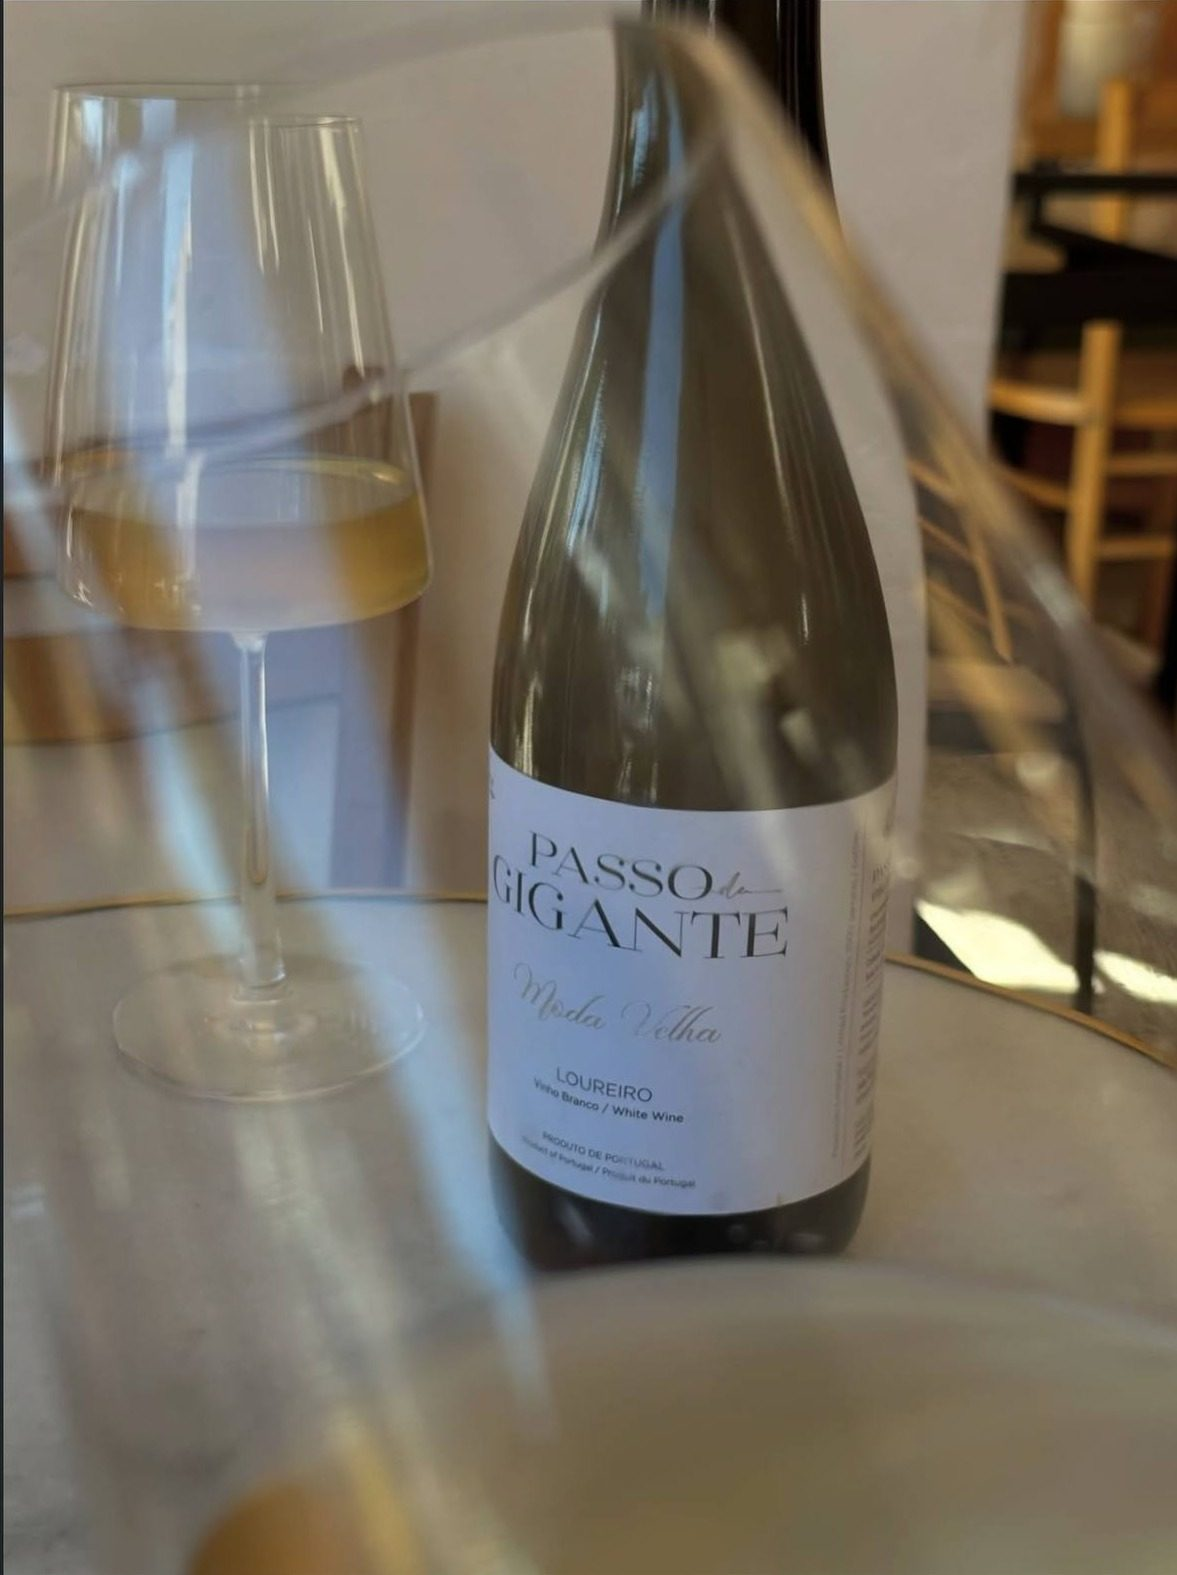
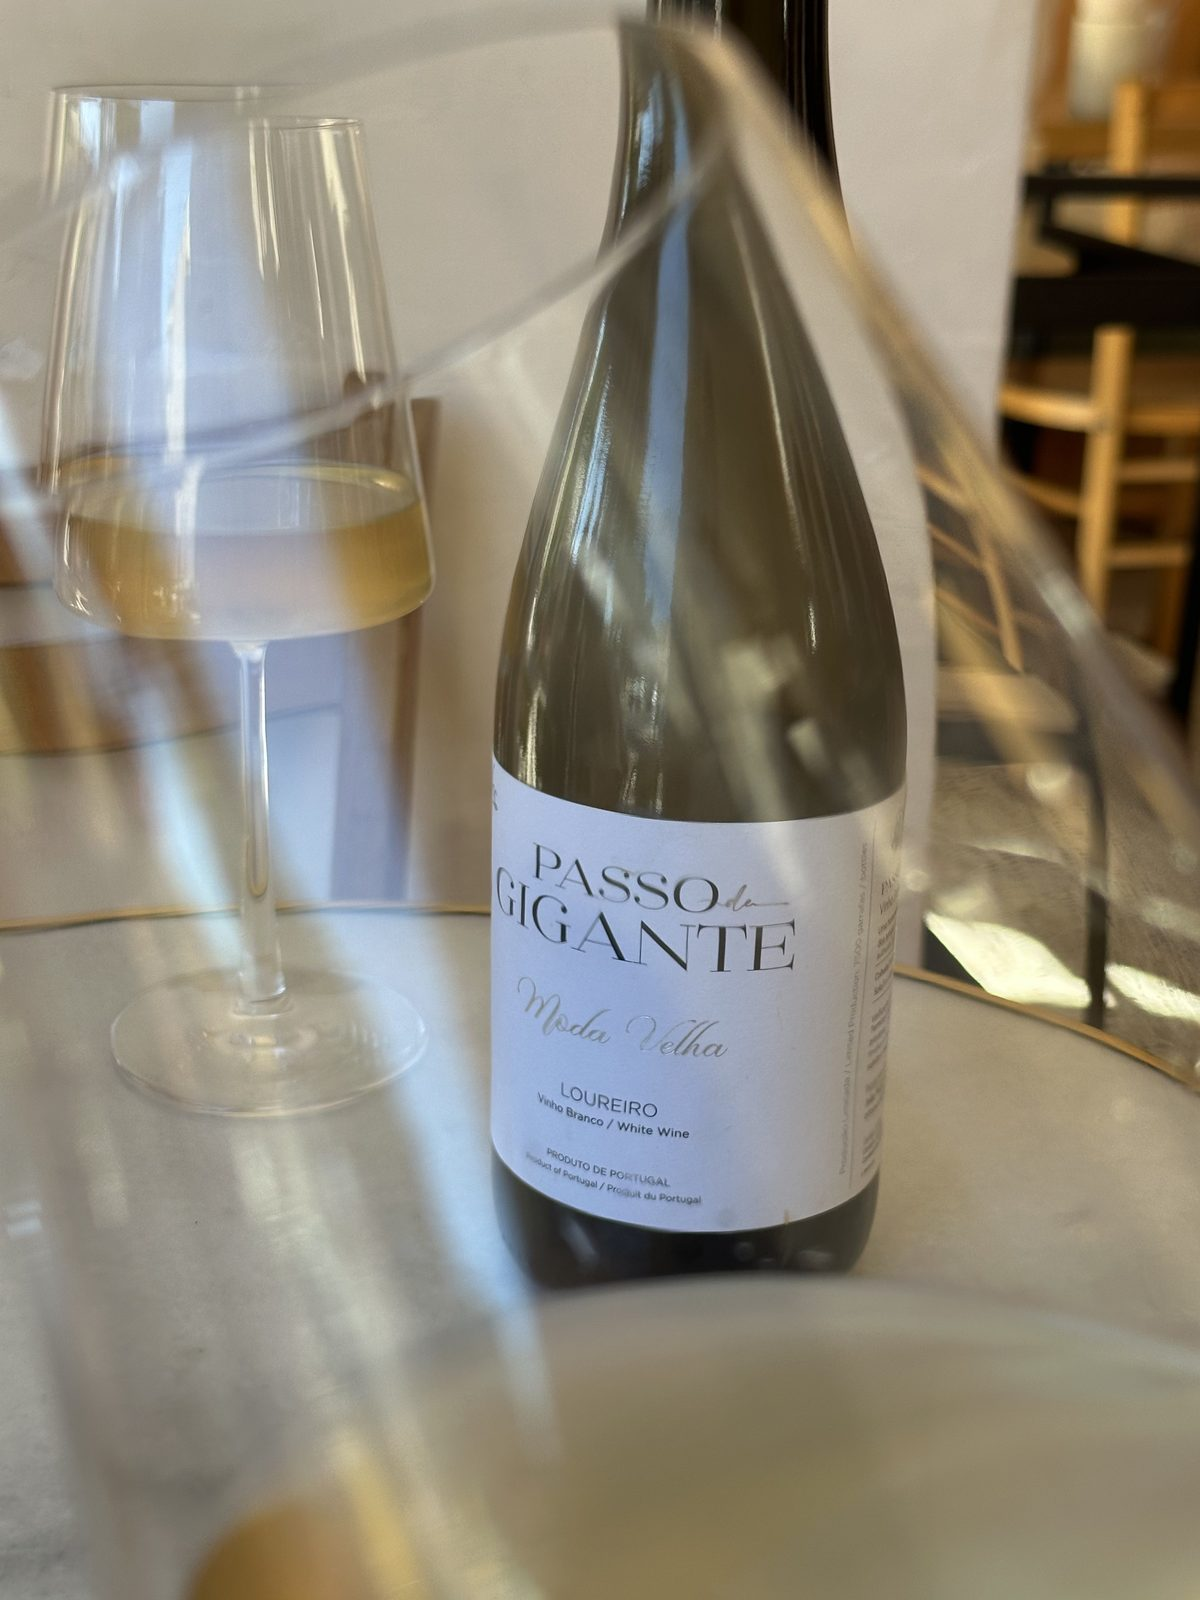
Homepage: 5 more photos, original-quality Passo de Gigante photo
Claude-Session: https://claude.ai/code/session_01V5p9waPZsE8MXT3q82iYXb

diff --git a/src/pages/Index.tsx b/src/pages/Index.tsx
@@ -8,49 +8,59 @@ import { MenuSheet } from "@/components/MenuSheet";
 import { JoinTeamSheet } from "@/components/JoinTeamSheet";
 import logoImage from "@/assets/logo.png";
 
-// Фото из Instagram @alba.lisbon (октябрь 2026)
+// Фото Альбы (Instagram и оригиналы, октябрь 2026)
 import photo0 from "@/assets/photos/breakfast-plate-window.jpg";
 import photo1 from "@/assets/photos/flat-matcha-iced.jpg";
 import photo2 from "@/assets/photos/four-cheese-omelette.jpg";
 import photo3 from "@/assets/photos/terrace-breakfast.jpg";
-import photo4 from "@/assets/photos/figs-lemon-cream.jpg";
-import photo5 from "@/assets/photos/espresso-pour.jpg";
-import photo6 from "@/assets/photos/avocado-toast-two-ways.jpg";
-import photo7 from "@/assets/photos/terrace-largo-do-rato.jpg";
-import photo8 from "@/assets/photos/brunch-crepes-scrambled-eggs.jpg";
-import photo9 from "@/assets/photos/coffee-milk-pour.jpg";
-import photo10 from "@/assets/photos/savory-oatmeal.jpg";
-import photo11 from "@/assets/photos/window-table-flower.jpg";
-import photo12 from "@/assets/photos/creme-brulee-strawberries.jpg";
-import photo13 from "@/assets/photos/filter-coffee-bloom.jpg";
-import photo14 from "@/assets/photos/weekend-set-bellini.jpg";
-import photo15 from "@/assets/photos/wine-passo-de-gigante.jpg";
-import photo16 from "@/assets/photos/espresso-cups-table.jpg";
-import photo17 from "@/assets/photos/coffee-beans-bona-roasters.jpg";
-import photo18 from "@/assets/photos/terrace-chairs.jpg";
-import photo19 from "@/assets/photos/empty-cups.jpg";
+import photo4 from "@/assets/photos/strawberry-matcha-closeup.jpg";
+import photo5 from "@/assets/photos/figs-lemon-cream.jpg";
+import photo6 from "@/assets/photos/espresso-pour.jpg";
+import photo7 from "@/assets/photos/avocado-toast-two-ways.jpg";
+import photo8 from "@/assets/photos/terrace-largo-do-rato.jpg";
+import photo9 from "@/assets/photos/matcha-to-go.jpg";
+import photo10 from "@/assets/photos/brunch-crepes-scrambled-eggs.jpg";
+import photo11 from "@/assets/photos/coffee-milk-pour.jpg";
+import photo12 from "@/assets/photos/savory-oatmeal.jpg";
+import photo13 from "@/assets/photos/window-table-flower.jpg";
+import photo14 from "@/assets/photos/best-review.jpg";
+import photo15 from "@/assets/photos/creme-brulee-strawberries.jpg";
+import photo16 from "@/assets/photos/filter-coffee-bloom.jpg";
+import photo17 from "@/assets/photos/weekend-set-bellini.jpg";
+import photo18 from "@/assets/photos/wine-passo-de-gigante.jpg";
+import photo19 from "@/assets/photos/wine-fridge.jpg";
+import photo20 from "@/assets/photos/espresso-cups-table.jpg";
+import photo21 from "@/assets/photos/coffee-beans-bona-roasters.jpg";
+import photo22 from "@/assets/photos/takeaway-bag.jpg";
+import photo23 from "@/assets/photos/terrace-chairs.jpg";
+import photo24 from "@/assets/photos/empty-cups.jpg";
 
 const photos = [
   { src: photo0, alt: "Breakfast plate with sourdough, boiled eggs, avocado, butter and jam by the window at Alba Lisbon" },
   { src: photo1, alt: "Iced flat matcha at Alba Lisbon matcha bar" },
   { src: photo2, alt: "Four cheese and onion jam omelette with green salad" },
   { src: photo3, alt: "Breakfast on the terrace at Largo do Rato" },
-  { src: photo4, alt: "Seasonal fruit with lemon cream – fresh figs and pistachios" },
-  { src: photo5, alt: "Double espresso pouring at Alba Lisbon" },
-  { src: photo6, alt: "Avocado toast two ways on a wooden chair" },
-  { src: photo7, alt: "Guests on the terrace at Largo do Rato" },
-  { src: photo8, alt: "Brunch spread with scrambled eggs, a savory crêpe and crêpe Suzette" },
-  { src: photo9, alt: "Milk poured into a black coffee" },
-  { src: photo10, alt: "Savory oatmeal with prosciutto cotto and fresh orange juice" },
-  { src: photo11, alt: "Window table with a red carnation" },
-  { src: photo12, alt: "Crème brûlée and strawberries with cream next to a black coffee" },
-  { src: photo13, alt: "Filter coffee blooming in a paper filter" },
-  { src: photo14, alt: "Weekend set – Bellini with seasonal fruit and cream on the terrace" },
-  { src: photo15, alt: "Passo de Gigante white wine at Alba Lisbon" },
-  { src: photo16, alt: "Espresso cups on a marble table" },
-  { src: photo17, alt: "Specialty coffee beans from Bona Roasters" },
-  { src: photo18, alt: "Rattan terrace chairs at Alba Lisbon" },
-  { src: photo19, alt: "Empty coffee cups after a busy morning" },
+  { src: photo4, alt: "Strawberry matcha close up – whipped strawberry ice cream over a matcha latte" },
+  { src: photo5, alt: "Seasonal fruit with lemon cream – fresh figs and pistachios" },
+  { src: photo6, alt: "Double espresso pouring at Alba Lisbon" },
+  { src: photo7, alt: "Avocado toast two ways on a wooden chair" },
+  { src: photo8, alt: "Guests on the terrace at Largo do Rato" },
+  { src: photo9, alt: "Iced matcha latte to go in a kraft paper carrier" },
+  { src: photo10, alt: "Brunch spread with scrambled eggs, a savory crêpe and crêpe Suzette" },
+  { src: photo11, alt: "Milk poured into a black coffee" },
+  { src: photo12, alt: "Savory oatmeal with prosciutto cotto and fresh orange juice" },
+  { src: photo13, alt: "Window table with a red carnation" },
+  { src: photo14, alt: "An empty plate – the best review" },
+  { src: photo15, alt: "Crème brûlée and strawberries with cream next to a black coffee" },
+  { src: photo16, alt: "Filter coffee blooming in a paper filter" },
+  { src: photo17, alt: "Weekend set – Bellini with seasonal fruit and cream on the terrace" },
+  { src: photo18, alt: "Passo de Gigante Loureiro white wine at Alba Lisbon" },
+  { src: photo19, alt: "Wine bottles resting in the wine fridge" },
+  { src: photo20, alt: "Espresso cups on a marble table" },
+  { src: photo21, alt: "Specialty coffee beans from Bona Roasters" },
+  { src: photo22, alt: "Takeaway order from Alba Lisbon with fresh orange juice" },
+  { src: photo23, alt: "Rattan terrace chairs at Alba Lisbon" },
+  { src: photo24, alt: "Empty coffee cups after a busy morning" },
 ];
 
 // one set for mobile slider and desktop
